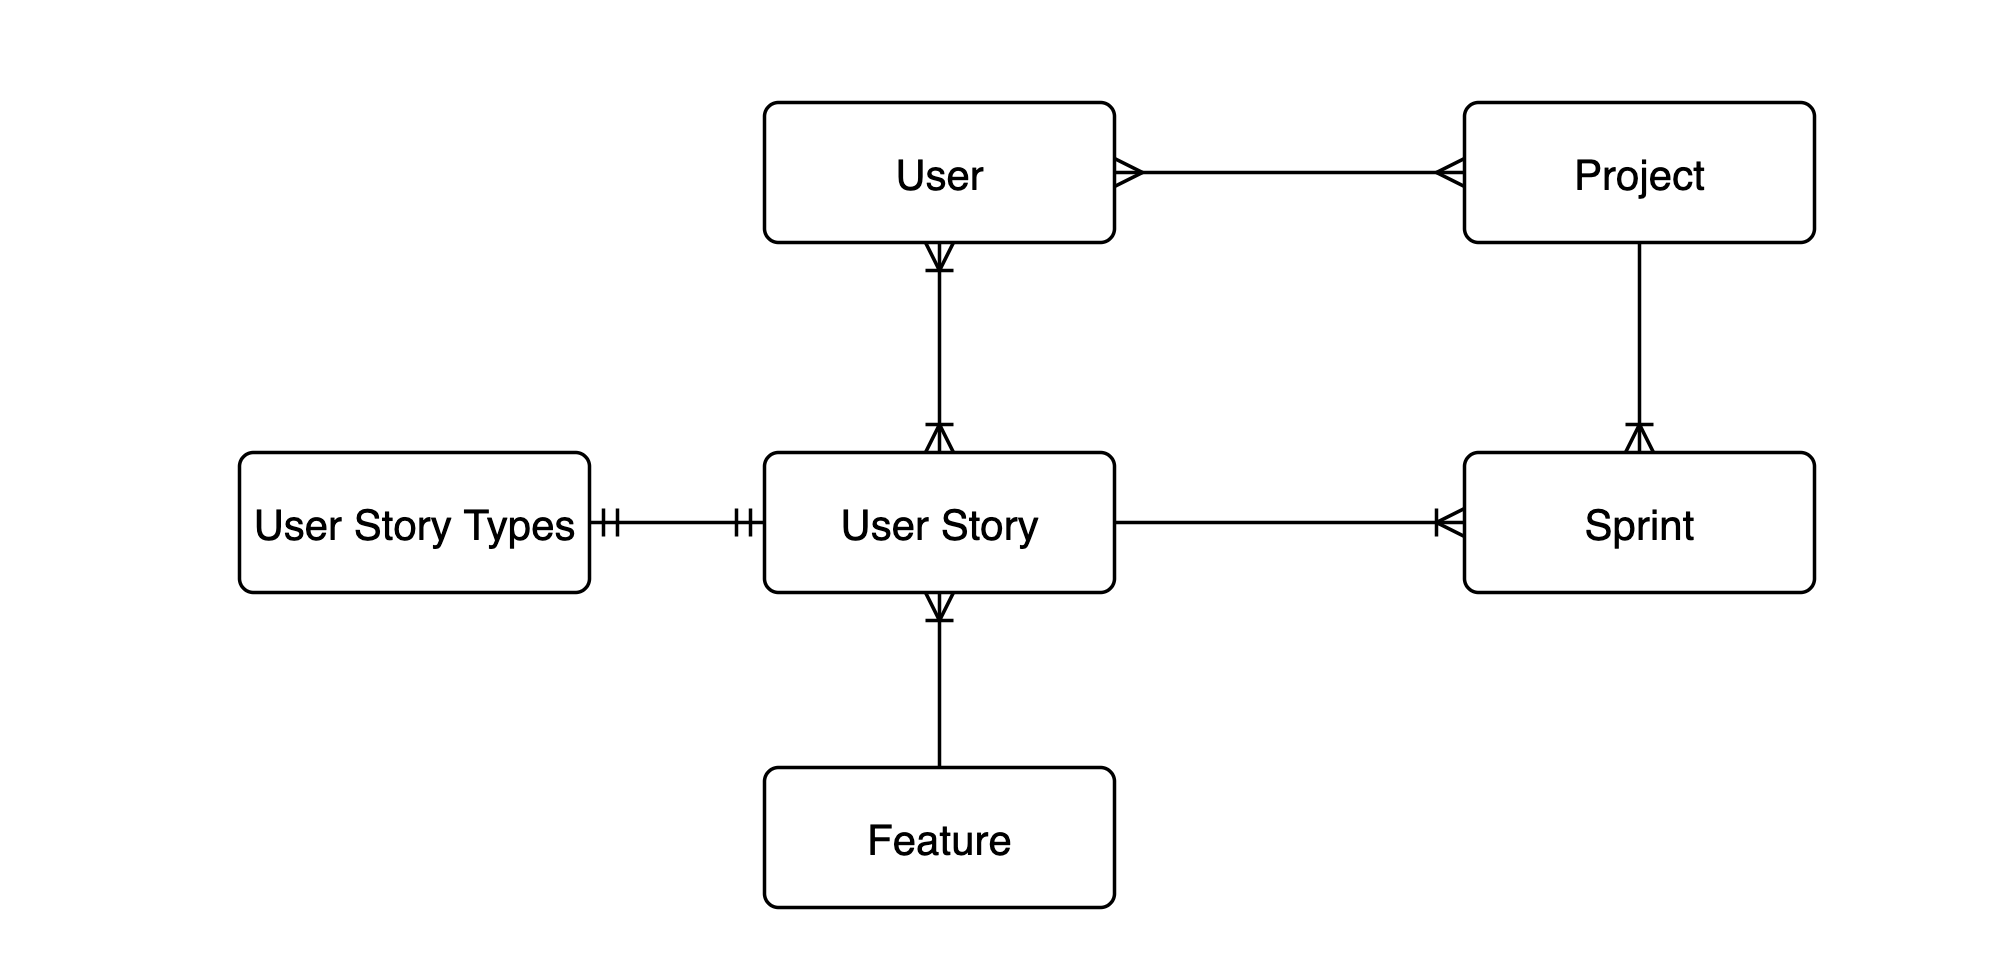
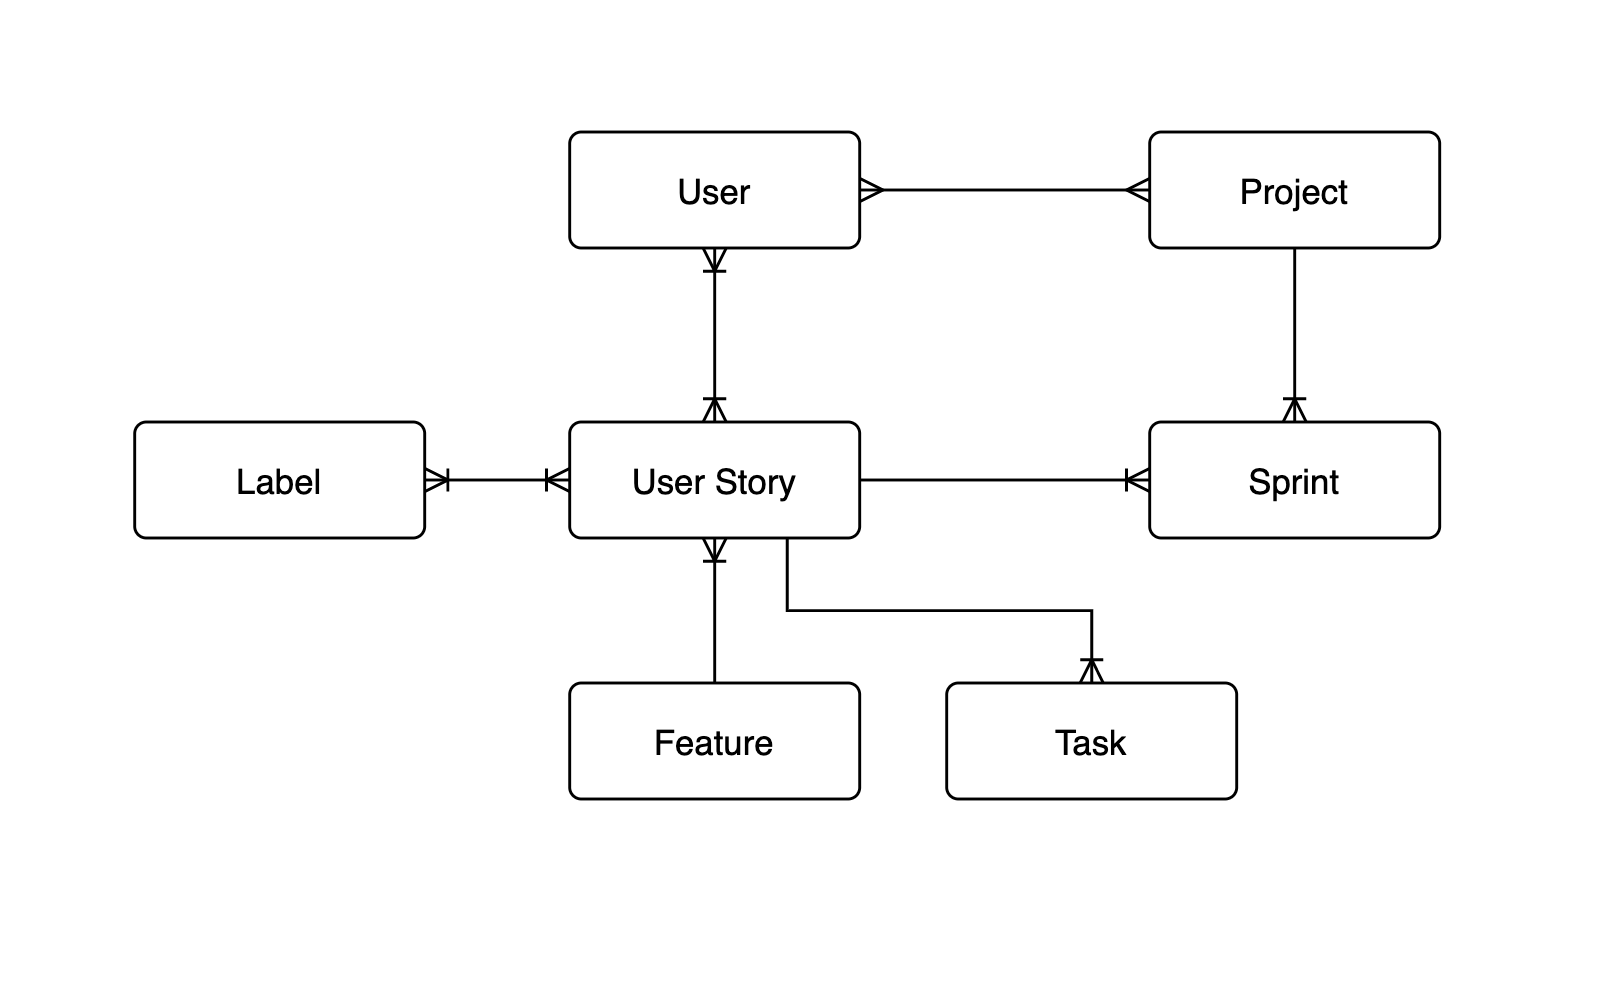
Added Communication Diagram and updated ER Diagram on README

diff --git a/README.md b/README.md
@@ -6,3 +6,8 @@ This project applies the spring framework with a microservices approach to gener
 
 ### Entity Relationships Diagram
 ![ER Diagram](./images/ER.png )
+
+### Communication Design Diagram
+The following Diagram shows how the communication between components its orchested:
+
+![Communication Diagram](./images/Design.png) 
